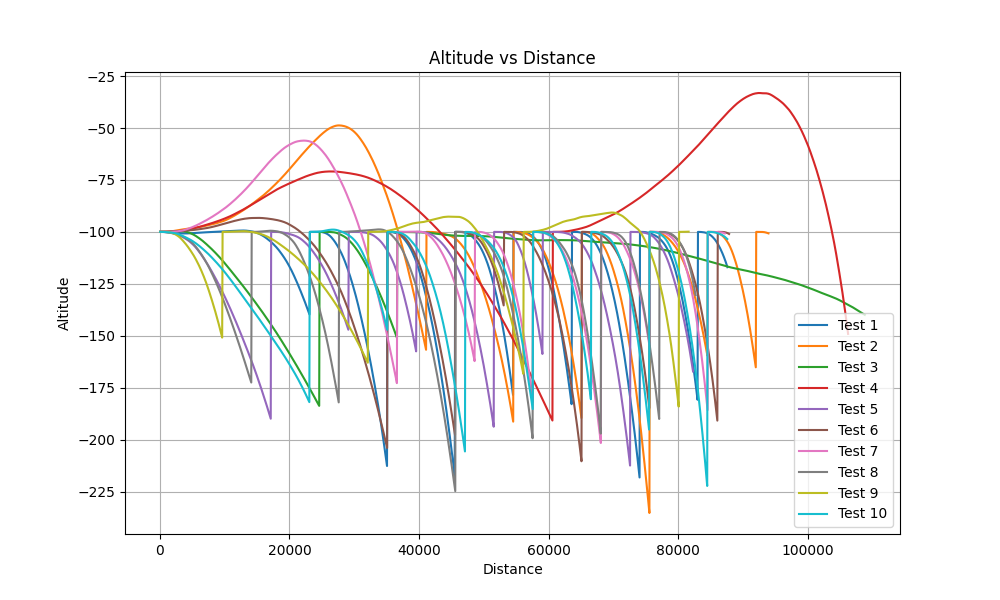
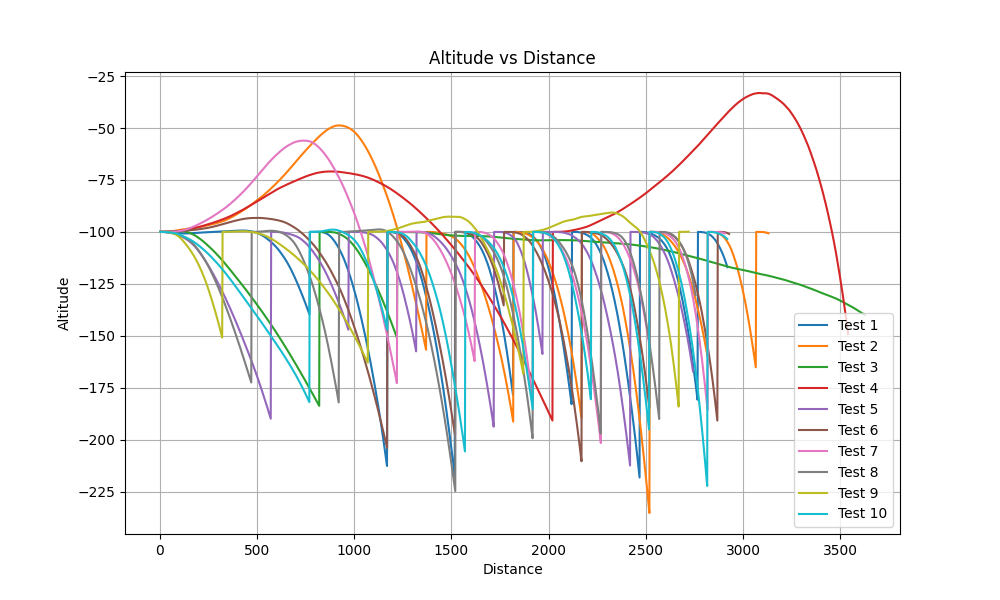
timestep fix in graph

diff --git a/graph.py b/graph.py
@@ -4,8 +4,8 @@ import subprocess
 import pandas as pd
 import matplotlib.pyplot as plt
 
-# test_name = "trials/network_tweaks_"
-test_name = "trials/baseline_"
+test_name = "trials/network_tweaks_"
+# test_name = "trials/baseline_"
 
 num_tests = 10
 
@@ -41,7 +41,7 @@ plt.figure(figsize=(10, 6))  # Set the figure size
 ticks_per_sec = 30  #assumed time step based on standard from plane_simulator
 for i, df in enumerate(all_data):
     # Calculate displacement as the cumulative sum of speed
-    displacement = (df['Speed'] * ticks_per_sec).cumsum()
+    displacement = (df['Speed'] * (1/ticks_per_sec)).cumsum()
 
     # Flip the altitude values (higher altitudes become negative)
     altitude_flipped = -df['Altitude']
